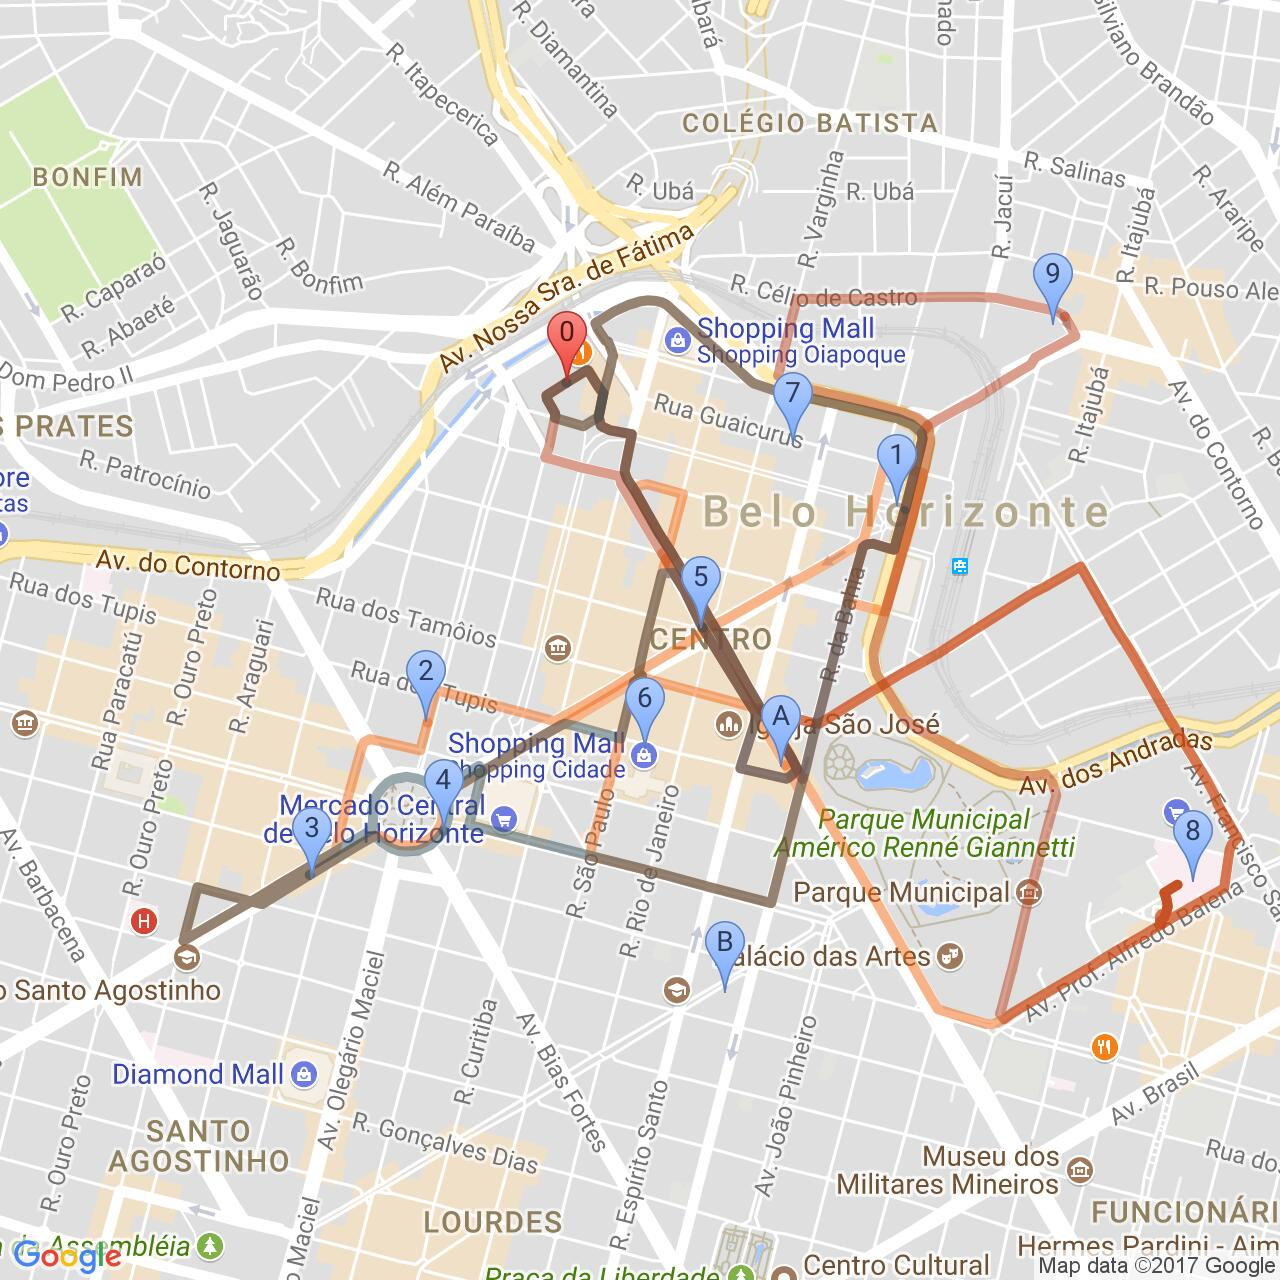
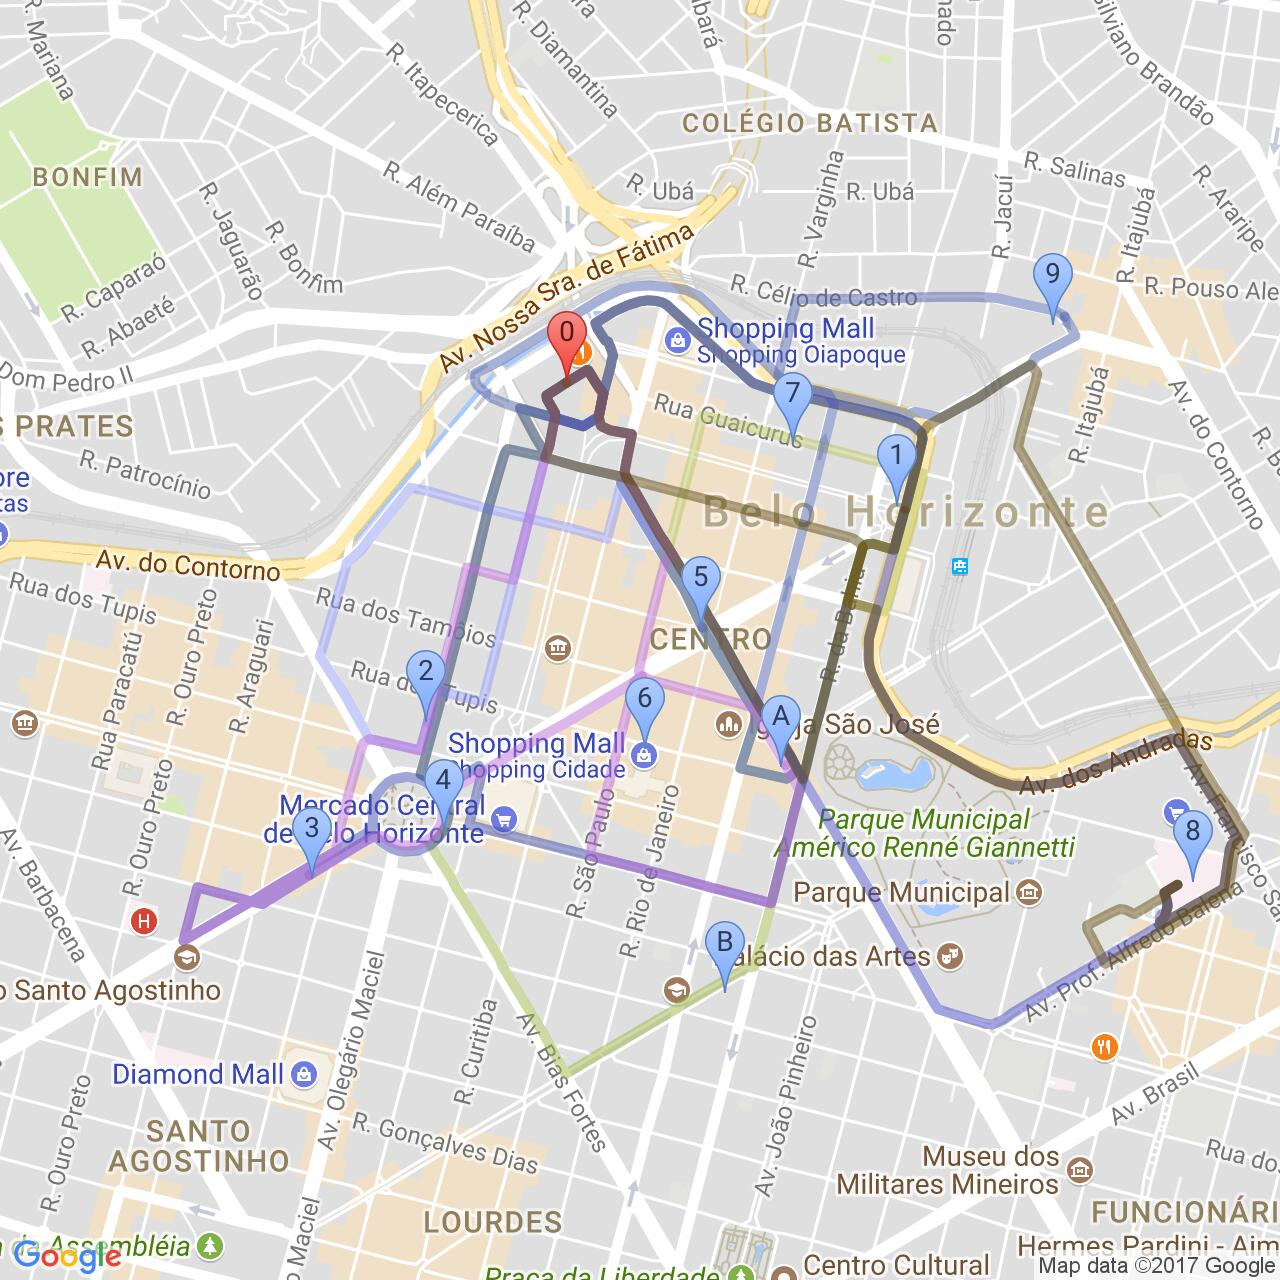
- método de geração de soluções egoístas funcionando

diff --git a/src/main/java/VRPDRTSD/Main.java b/src/main/java/VRPDRTSD/Main.java
@@ -13,19 +13,18 @@ public class Main {
         String nodesData = "bh_n12s";
         String adjacenciesData = "bh_adj_n12s";
         int numberOfVehicles = 50;
-        int vehicleCapacity = 4;
+        int vehicleCapacity = 1;
         System.out.println("Testing VRPDRTSD class");
         VRPDRTSD problem = new VRPDRTSD(instanceName, nodesData, adjacenciesData, numberOfVehicles, vehicleCapacity);
-        problem.buildGreedySolution();
-
+        problem.buildSelfishSolution();
+        problem.getSolution().printAllInformations();
         System.out.println(problem.getSolution());
+        problem.getSolution().getStaticMapWithAllRoutes(problem.getData().getNodes(), adjacenciesData, nodesData);
+        
+        problem.localSearch(8);
+        problem.getSolution().getStaticMapWithAllRoutes(problem.getData().getNodes(), adjacenciesData, nodesData);
+        //problem.buildRandomSolution();
+        //System.out.println(problem.getSolution());
         //problem.getSolution().getStaticMapWithAllRoutes(problem.getData().getNodes(), adjacenciesData, nodesData);
-
-        problem.localSearch(2);
-        System.out.println(problem.getSolution());
-
-        //problem.getSolution().getStaticMapForEveryRoute(problem.getData().getNodes(), adjacenciesData, nodesData);
-        //problem.getSolution().getStaticMapWithAllRoutes(problem.getData().getNodes(), adjacenciesData, nodesData);
-
     }
 }

diff --git a/src/test/java/VRPDRTSD/VRPDRTSDTest.java b/src/test/java/VRPDRTSD/VRPDRTSDTest.java
@@ -220,21 +220,19 @@ public class VRPDRTSDTest {
     }
 
     @Test
-    public void buildRandomSolutionTest() {
+    public void buildRandomSolutionTest() throws IOException {
         System.out.println("------ Testing Random Solution ------");
         String instanceName = "r010n12tw10";
         String nodesData = "bh_n12s";
         String adjacenciesData = "bh_adj_n12s";
-        int numberOfVehicles = 10;
-        int vehicleCapacity = 11;
-//        VRPDRTSD problem = new VRPDRTSD(instanceName, nodesData, adjacenciesData, numberOfVehicles, vehicleCapacity);
-
-        for (int i = 0; i < 15; i++) {
-            VRPDRTSD problem = new VRPDRTSD(instanceName, nodesData, adjacenciesData, numberOfVehicles, vehicleCapacity);
-            problem.buildRandomSolution();
-            System.out.println(problem.getSolution());
-            //problem.getSolution().printAllInformations();
-        }
+        int numberOfVehicles = 250;
+        int vehicleCapacity = 1;
+        
+        VRPDRTSD problem = new VRPDRTSD(instanceName, nodesData, adjacenciesData, numberOfVehicles, vehicleCapacity);
+//        problem.buildRandomSolution();
+        problem.buildSelfishSolution();
+        problem.getSolution().printAllInformations();
+        //problem.getSolution().getStaticMapWithAllRoutes(problem.getData().getNodes(), adjacenciesData, nodesData);
 
     }
 }

diff --git a/src/main/java/VRPDRTSD/VRPDRTSD.java b/src/main/java/VRPDRTSD/VRPDRTSD.java
@@ -389,6 +389,12 @@ public class VRPDRTSD implements Heuristic {
         finalizeSolution();
     }
     
+    public void buildSelfishSolution() {
+        VRPDRTSD problem = new VRPDRTSD(instanceName, nodesInstanceName, adjacenciesInstanceName, numberOfVehicles, 1);
+        problem.buildGreedySolution();
+        this.solution = problem.getSolution();
+    }
+    
     public void initializeRandomCandidatesSet() {
         originalRequestsFeasibilityAnalysis();
         prepareAndSetRequestsData();
